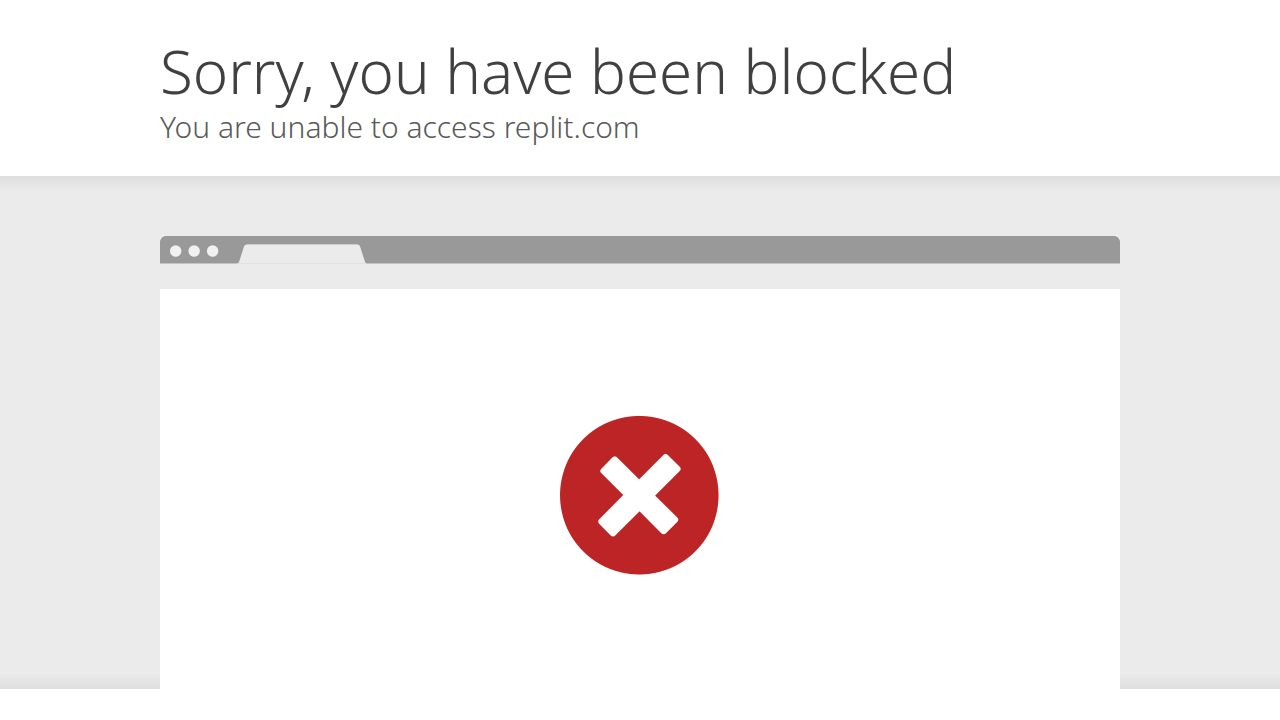
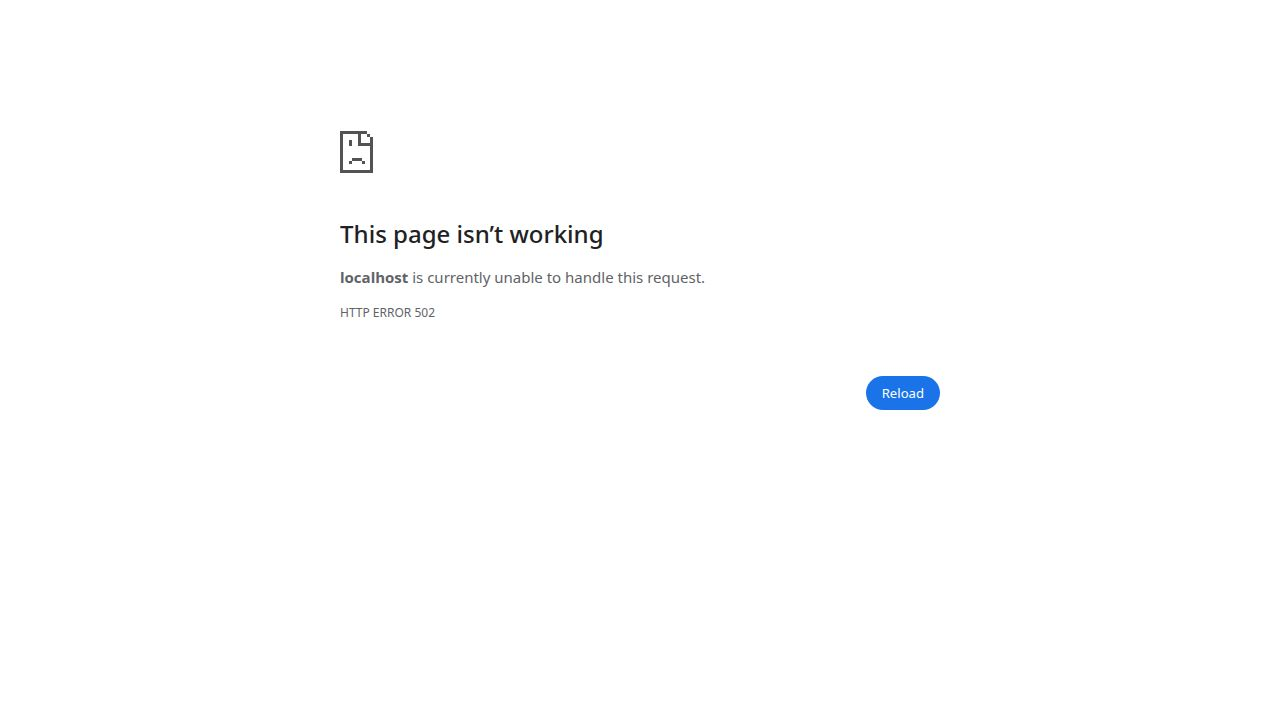
feat: delete stop from established tour (Task #9)
## Summary
Added the ability to remove a property stop from an existing tour on both
the web app and the mobile app. The backend DELETE /tour-stops/:stopId API
was already available via the generated useDeleteTourStop hook.

## Web Changes (artifacts/tour-planner)
- StopsTab.tsx: Added `tourStatus` prop; imported `useDeleteTourStop` and
  `Trash2` from lucide-react; added AlertDialog for confirmation before
  deletion; added a trash icon button that appears on hover for each stop
  row; button is hidden when `tourStatus === "published"`; on confirm,
  optimistically removes stop from local state immediately, then calls
  deleteStop and invalidates the tour query (rolling back on error)
- TourDetail.tsx: Passes `tour.status` as `tourStatus` prop to StopsTab

## Mobile Changes (artifacts/tour-mobile)
- [stopId].tsx: Imported `useDeleteTourStop`, `useGetTour`, `useQueryClient`,
  `getGetTourQueryKey`, and `useRouter`; added `useGetTour` query using
  `stop.tourId` to fetch tour status; added `handleRemoveStop` handler that
  shows a native Alert.alert confirmation; added "Remove Stop" destructive
  button at the bottom of the ScrollView; on confirm, calls deleteStop,
  invalidates getGetTourQueryKey(stop.tourId) to keep sequence numbers
  accurate, then navigates explicitly to /tour/[tourId] (deterministic vs
  generic back); button only renders when `tourStatus !== undefined &&
  tourStatus !== "published"` to avoid flash-of-button during loading

## Notes
[…]

diff --git a/artifacts/tour-mobile/app/stop/[stopId].tsx b/artifacts/tour-mobile/app/stop/[stopId].tsx
@@ -3,12 +3,16 @@ import {
   useGetTourStop,
   useAddStopNote,
   useUpdateTourStop,
+  useDeleteTourStop,
+  useGetTour,
   getGetTourStopQueryKey,
+  getGetTourQueryKey,
 } from "@workspace/api-client-react";
 import type { UpdateTourStopRequest } from "@workspace/api-client-react";
+import { useQueryClient } from "@tanstack/react-query";
 import NetInfo from "@react-native-community/netinfo";
 import * as Haptics from "expo-haptics";
-import { useLocalSearchParams, useNavigation } from "expo-router";
+import { useLocalSearchParams, useNavigation, useRouter } from "expo-router";
 import { SymbolView, type SFSymbol } from "expo-symbols";
 import React, { type ComponentProps, useEffect, useRef, useState } from "react";
 import {
@@ -61,6 +65,9 @@ export default function StopDetailScreen() {
   const scrollRef = useRef<ScrollView>(null);
   const voiceY = useRef(0);
 
+  const router = useRouter();
+  const queryClient = useQueryClient();
+
   const { data, isLoading, refetch } = useGetTourStop(stopId ?? "", {
     query: { queryKey: getGetTourStopQueryKey(stopId ?? ""), enabled: !!stopId },
   });
@@ -73,12 +80,50 @@ export default function StopDetailScreen() {
     mutation: { onSuccess: () => refetch() },
   });
 
+  const { mutate: deleteStop, isPending: isDeletingStop } = useDeleteTourStop();
+
   const stop = data?.stop;
   const property = data?.property;
   const showingRequest = data?.showingRequest;
   const restrictionNote = data?.restrictionNote;
   const voiceNotes = data?.voiceNotes ?? [];
   const summary = data?.propertySummary;
+
+  const { data: tourData } = useGetTour(stop?.tourId ?? "", {
+    query: { enabled: !!stop?.tourId },
+  });
+  const tourStatus = tourData?.tour?.status;
+
+  const handleRemoveStop = () => {
+    if (!stopId || !stop) return;
+    Alert.alert(
+      "Remove Stop",
+      "Are you sure you want to remove this stop from the tour?",
+      [
+        { text: "Cancel", style: "cancel" },
+        {
+          text: "Remove",
+          style: "destructive",
+          onPress: () => {
+            deleteStop(
+              { stopId },
+              {
+                onSuccess: () => {
+                  void queryClient.invalidateQueries({
+                    queryKey: getGetTourQueryKey(stop.tourId),
+                  });
+                  router.replace(`/tour/${stop.tourId}`);
+                },
+                onError: () => {
+                  Alert.alert("Error", "Failed to remove stop. Please try again.");
+                },
+              }
+            );
+          },
+        },
+      ]
+    );
+  };
 
   useEffect(() => {
     if (property) {
@@ -583,6 +628,30 @@ export default function StopDetailScreen() {
             </View>
           </View>
         )}
+
+        {tourStatus !== undefined && tourStatus !== "published" && (
+          <View style={styles.section}>
+            <Pressable
+              testID="remove-stop-btn"
+              onPress={handleRemoveStop}
+              disabled={isDeletingStop}
+              style={({ pressed }) => [
+                styles.removeStopBtn,
+                { borderColor: C.coral, backgroundColor: pressed ? C.coral + "15" : "transparent" },
+                isDeletingStop && { opacity: 0.5 },
+              ]}
+            >
+              {isIOS ? (
+                <SymbolView name="trash" tintColor={C.coral} size={18} />
+              ) : (
+                <Feather name="trash-2" size={18} color={C.coral} />
+              )}
+              <Text style={[styles.removeStopLabel, { color: C.coral }]}>
+                {isDeletingStop ? "Removing…" : "Remove Stop"}
+              </Text>
+            </Pressable>
+          </View>
+        )}
       </ScrollView>
     </KeyboardAvoidingView>
 
@@ -909,5 +978,18 @@ const styles = StyleSheet.create({
     fontFamily: "Inter_400Regular",
     textTransform: "capitalize",
     marginTop: 2,
+  },
+  removeStopBtn: {
+    flexDirection: "row",
+    alignItems: "center",
+    justifyContent: "center",
+    gap: 8,
+    paddingVertical: 14,
+    borderRadius: 14,
+    borderWidth: 1,
+  },
+  removeStopLabel: {
+    fontSize: 15,
+    fontFamily: "Inter_600SemiBold",
   },
 });

diff --git a/artifacts/tour-planner/src/pages/tour/tabs/StopsTab.tsx b/artifacts/tour-planner/src/pages/tour/tabs/StopsTab.tsx
@@ -1,8 +1,8 @@
 import { useState, useEffect } from "react"
 import { DragDropContext, Droppable, Draggable, DropResult } from "@hello-pangea/dnd"
-import { useAddPropertyToTour, useReorderTourStops, useOptimizeTourRoute } from "@workspace/api-client-react"
+import { useAddPropertyToTour, useReorderTourStops, useOptimizeTourRoute, useDeleteTourStop } from "@workspace/api-client-react"
 import type { TourStop } from "@workspace/api-client-react"
-import { GripVertical, Plus, Route, Loader2, MapPin, Building2 } from "lucide-react"
+import { GripVertical, Plus, Route, Loader2, MapPin, Building2, Trash2 } from "lucide-react"
 import { Button } from "@/components/ui/button"
 import { Dialog, DialogContent, DialogHeader, DialogTitle, DialogTrigger } from "@/components/ui/dialog"
 import { Input } from "@/components/ui/input"
@@ -12,18 +12,31 @@ import { useToast } from "@/hooks/use-toast"
 import { useQueryClient } from "@tanstack/react-query"
 import { getGetTourQueryKey } from "@workspace/api-client-react"
 import { cn, getStatusColor } from "@/lib/utils"
+import {
+  AlertDialog,
+  AlertDialogAction,
+  AlertDialogCancel,
+  AlertDialogContent,
+  AlertDialogDescription,
+  AlertDialogFooter,
+  AlertDialogHeader,
+  AlertDialogTitle,
+} from "@/components/ui/alert-dialog"
 
 interface StopsTabProps {
   tourId: string
   stops: TourStop[]
+  tourStatus?: string
 }
 
-export default function StopsTab({ tourId, stops: initialStops }: StopsTabProps) {
+export default function StopsTab({ tourId, stops: initialStops, tourStatus }: StopsTabProps) {
   const [stops, setStops] = useState<TourStop[]>(initialStops)
   const [isAddOpen, setIsAddOpen] = useState(false)
+  const [stopToDelete, setStopToDelete] = useState<TourStop | null>(null)
   const addProp = useAddPropertyToTour()
   const reorder = useReorderTourStops()
   const optimize = useOptimizeTourRoute()
+  const deleteStop = useDeleteTourStop()
   const { toast } = useToast()
   const queryClient = useQueryClient()
 
@@ -74,6 +87,21 @@ export default function StopsTab({ tourId, stops: initialStops }: StopsTabProps)
       await queryClient.invalidateQueries({ queryKey: getGetTourQueryKey(tourId) })
     } catch {
       toast({ title: "Failed to optimize route", variant: "destructive" })
+    }
+  }
+
+  const handleDeleteConfirm = async () => {
+    if (!stopToDelete) return
+    const removedStop = stopToDelete
+    setStopToDelete(null)
+    setStops(prev => prev.filter(s => s.id !== removedStop.id))
+    try {
+      await deleteStop.mutateAsync({ stopId: removedStop.id })
+      toast({ title: "Stop removed from tour" })
+      await queryClient.invalidateQueries({ queryKey: getGetTourQueryKey(tourId) })
+    } catch {
+      toast({ title: "Failed to remove stop", variant: "destructive" })
+      setStops(initialStops)
     }
   }
 
@@ -155,6 +183,18 @@ export default function StopsTab({ tourId, stops: initialStops }: StopsTabProps)
                             Stop {stop.sequence} · {stop.visited ? "Visited" : "Pending"}
                           </div>
                         </div>
+
+                        {tourStatus !== "published" && (
+                          <Button
+                            variant="ghost"
+                            size="icon"
+                            className="text-muted-foreground hover:text-destructive hover:bg-destructive/10 shrink-0 opacity-0 group-hover:opacity-100 transition-opacity"
+                            onClick={() => setStopToDelete(stop)}
+                            aria-label="Remove stop"
+                          >
+                            <Trash2 className="h-4 w-4" />
+                          </Button>
+                        )}
                       </div>
                     )}
                   </Draggable>
@@ -165,6 +205,26 @@ export default function StopsTab({ tourId, stops: initialStops }: StopsTabProps)
           </Droppable>
         </DragDropContext>
       )}
+
+      <AlertDialog open={!!stopToDelete} onOpenChange={(open) => { if (!open) setStopToDelete(null) }}>
+        <AlertDialogContent>
+          <AlertDialogHeader>
+            <AlertDialogTitle>Remove Stop</AlertDialogTitle>
+            <AlertDialogDescription>
+              Are you sure you want to remove this stop from the tour? This action cannot be undone.
+            </AlertDialogDescription>
+          </AlertDialogHeader>
+          <AlertDialogFooter>
+            <AlertDialogCancel>Cancel</AlertDialogCancel>
+            <AlertDialogAction
+              onClick={handleDeleteConfirm}
+              className="bg-destructive text-destructive-foreground hover:bg-destructive/90"
+            >
+              {deleteStop.isPending ? "Removing..." : "Remove Stop"}
+            </AlertDialogAction>
+          </AlertDialogFooter>
+        </AlertDialogContent>
+      </AlertDialog>
     </div>
   )
 }

diff --git a/artifacts/tour-planner/src/pages/tour/TourDetail.tsx b/artifacts/tour-planner/src/pages/tour/TourDetail.tsx
@@ -98,7 +98,7 @@ export default function TourDetail() {
 
         <div className="bg-card rounded-2xl border border-border/50 shadow-sm min-h-[500px]">
           <TabsContent value="stops" className="m-0 p-0 outline-none">
-            <StopsTab tourId={tourId} stops={stops} />
+            <StopsTab tourId={tourId} stops={stops} tourStatus={tour.status} />
           </TabsContent>
           <TabsContent value="map" className="m-0 p-0 outline-none">
             <MapTab stops={stops} properties={properties} />